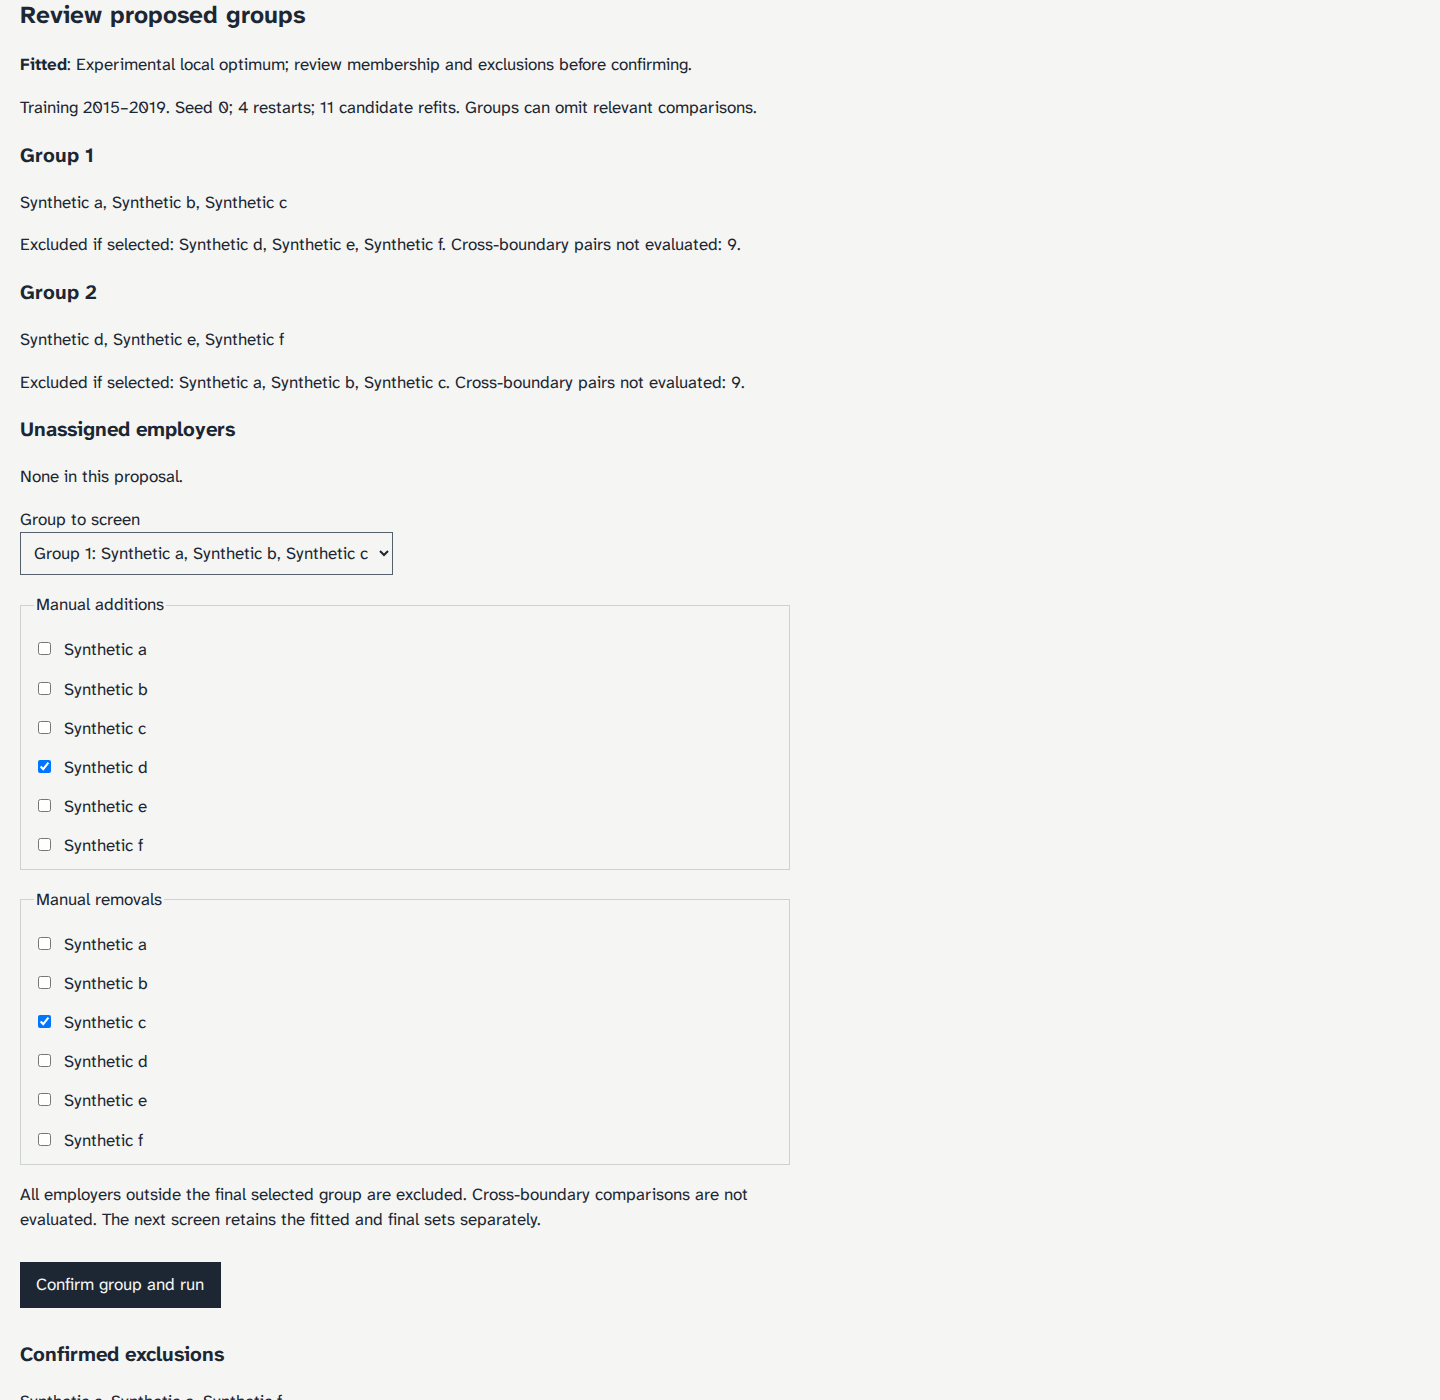
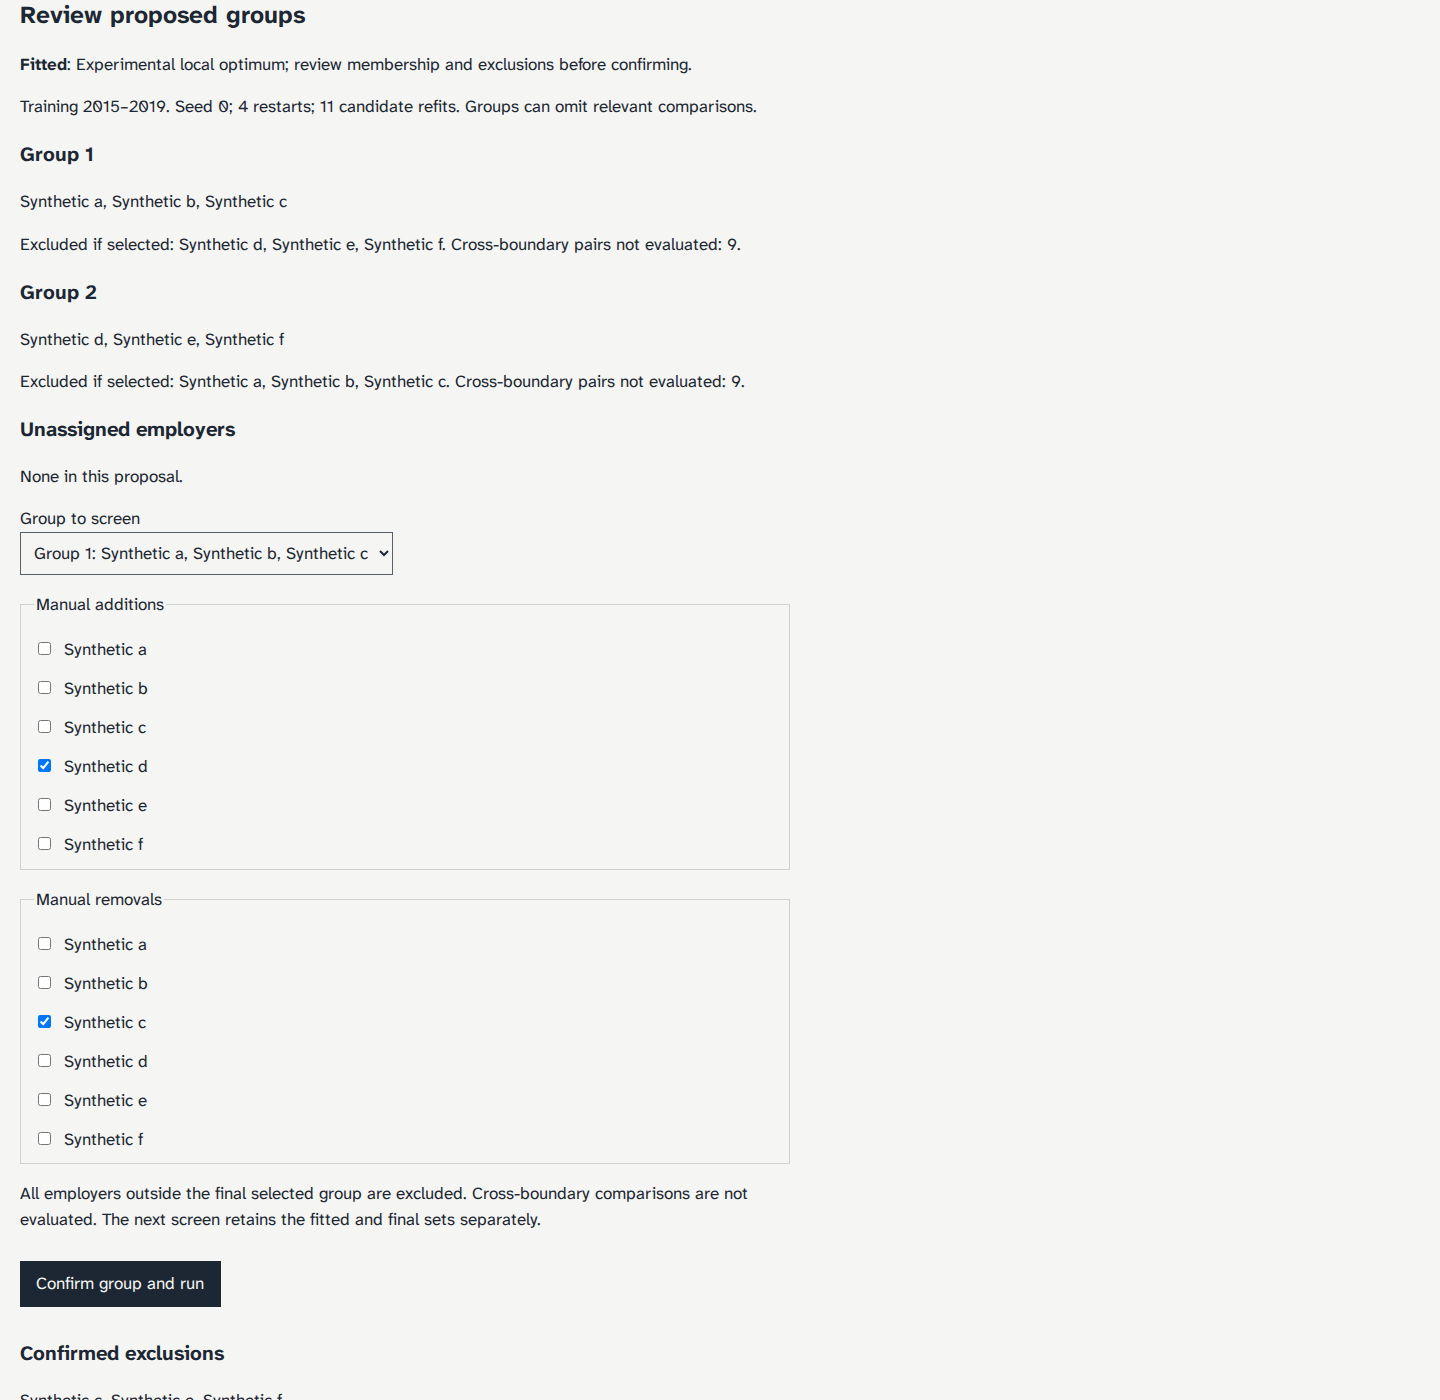
Record final analytical-check verification and visual evidence
Retain final regression, browser, offline and repository-scan results after
all review fixes. Refresh the inspected market capture and document the
controller-owned publication and Windows checks.

diff --git a/docs/plans/evidence/nopo-3-build.md b/docs/plans/evidence/nopo-3-build.md
@@ -3,6 +3,38 @@
 Work source: `docs/plans/2026-11-09-0819-feat-nopo-3-analytical-checks-plan.md`.
 Branch: `drawdown/nopo-3`. Item kind: planned.
 
+## Final verification
+
+All three analytical checks and their local review paths are implemented. All
+seven independently validated review findings are fixed; none remain unapplied.
+
+| Check | Final result |
+|---|---|
+| `uv run --no-sync pytest -q` | 530 passed, 1 existing skip, 14 browser/live tests deselected; 128.46 seconds. |
+| `uv run --no-sync pytest -m browser tests/app/test_e2e.py -q` | 6 passed; 131.95 seconds, after the review fixes. |
+| `uv run --no-sync pytest -m network_off -q` | 25 passed, 520 deselected; 6.61 seconds. |
+| Ruff and formatting | Both passed across the repository. |
+| Strict mypy | Passed for 50 source files. |
+| Repository history data-file scan | Passed. No confidential denylist was supplied or accessed; its term scan remains for the controller. |
+| Existing test preservation | All 62 original test/helper definitions in changed baseline test files are unchanged. |
+| Visual evidence | Four actual Playwright captures inspected and committed. The final run refreshed the market capture; the other three matched the inspected files. |
+
+The browser suite exercised the following pages and actions without skips:
+
+| Route or action | Result |
+|---|---|
+| Workspace and refusal pages (`/`) | Pass, including accessibility. |
+| Ordinary and flow market review (`/market`) | Pass, including keyboard review and manual edits. |
+| Analytical imports and retained selections (`/imports`) | Pass for all three local input types. |
+| Group proposal and confirmation | Pass with the posted proposal identity. |
+| Ranked screen, progress and partial acceptance | Pass, including tested and unavailable analytical states. |
+| Pair dossier, move evidence and Word download | Pass with the frozen analytical context. |
+
+The analytical browser workflow asserts zero page errors. Axe, 360-pixel layout
+checks, escaped source text and loopback-only request assertions passed. Browser
+fixtures closed their local servers and Chromium sessions. Windows CI and the
+campaign publication/merge gate remain controller responsibilities.
+
 ## Reverified baseline
 
 The build began from the committed plan at `7874c7a`, with application base
